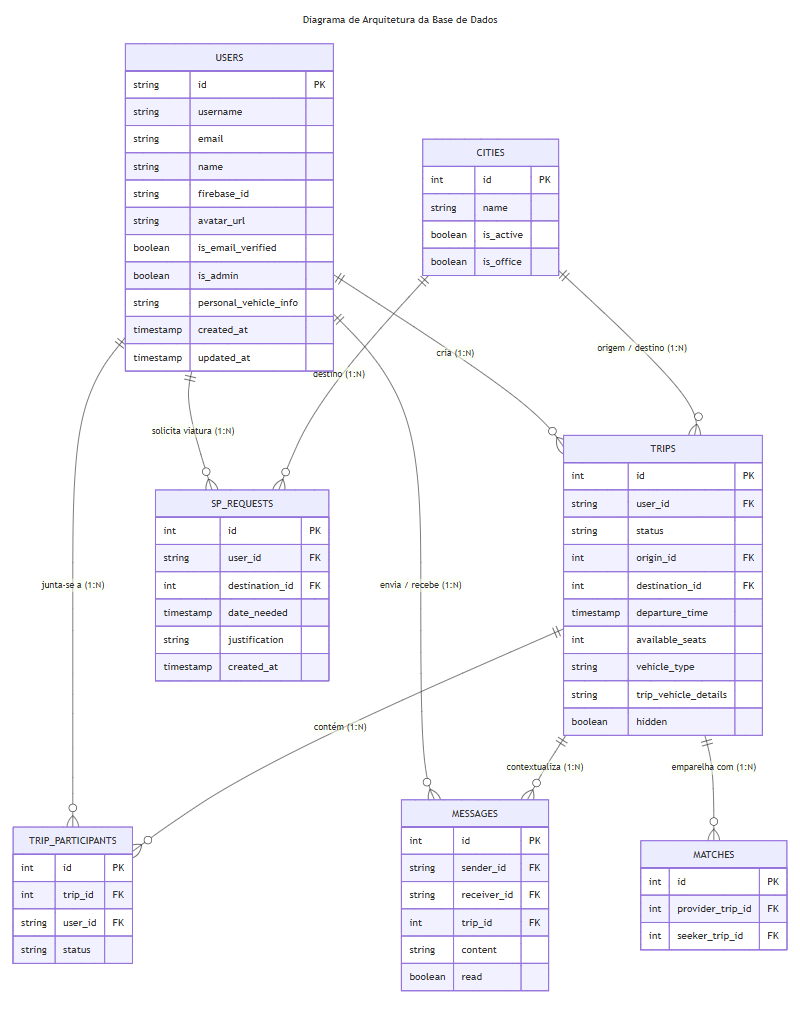
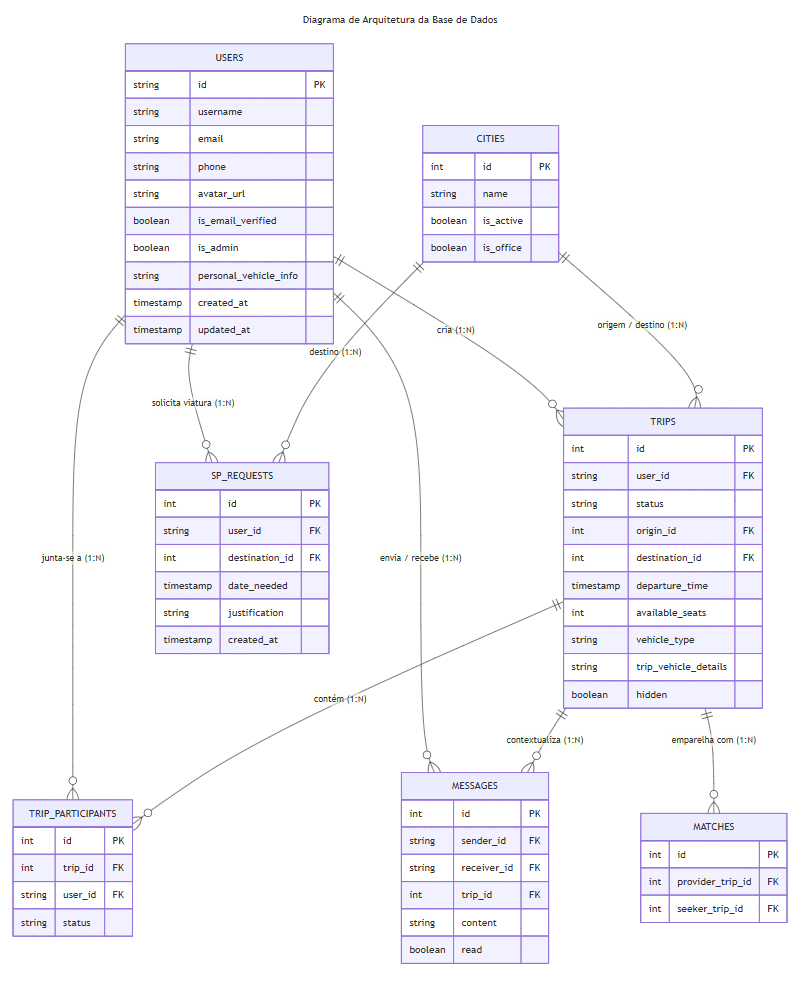
Nada

diff --git a/Documentation/Diagramas/base-dados.md b/Documentation/Diagramas/base-dados.md
@@ -8,8 +8,7 @@ erDiagram
         string id PK
         string username
         string email
-        string name
-        string firebase_id
+        string phone
         string avatar_url
         boolean is_email_verified
         boolean is_admin
